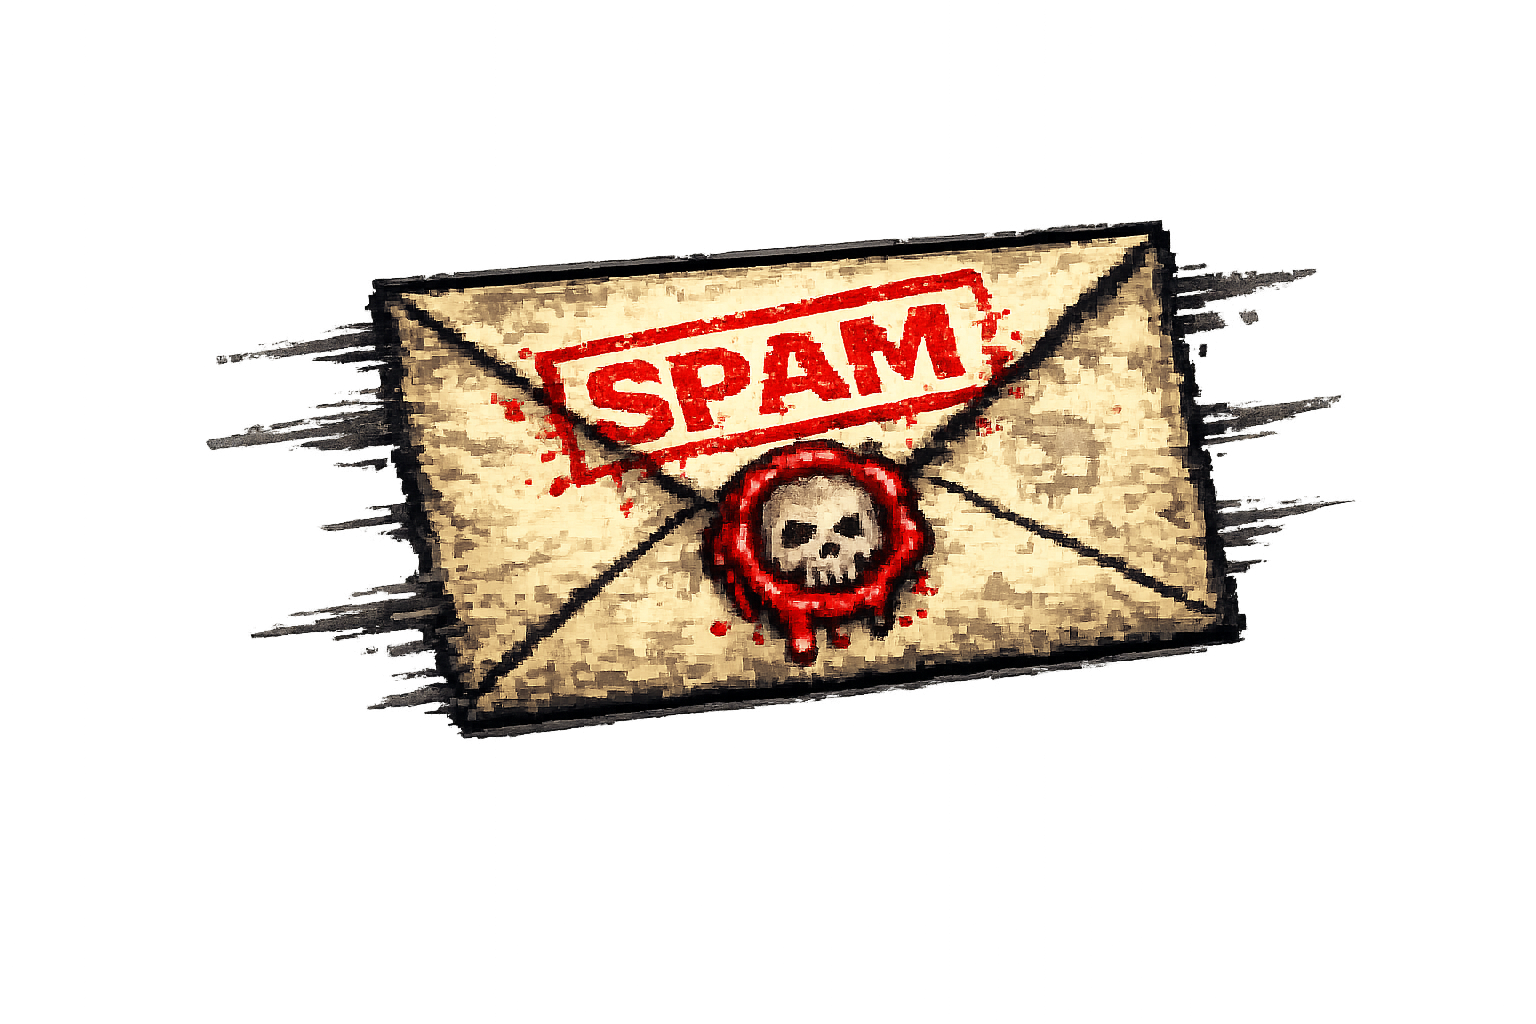
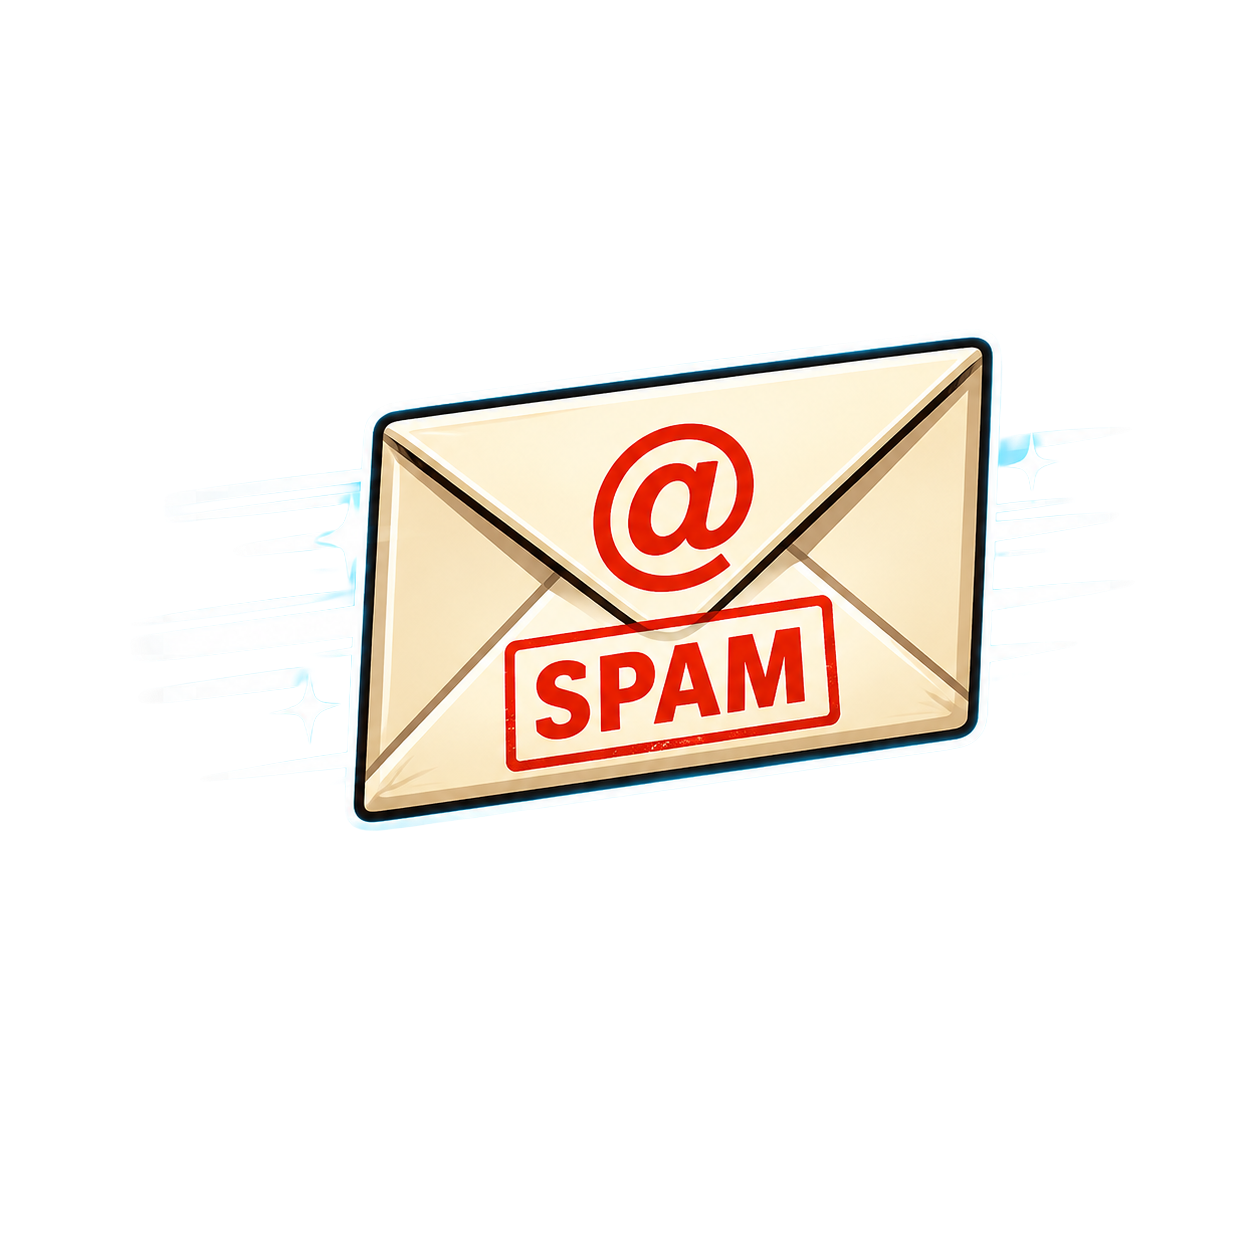
modem defender new enemies

Changed region(s): [[0.1244, 0.2188, 0.8708, 0.7188]]

diff --git a/src/games/ModemDefender.jsx b/src/games/ModemDefender.jsx
@@ -69,15 +69,49 @@ const lerp = (a, b, t) => a + (b - a) * t;
    art     : sprite file (or null for emoji)
    anim    : frame count if it's an animated strip (virus)
    fires   : ms cadence to lob a missile (0 = never). Kept sparse on purpose.
-   weight  : relative frequency in the wall once unlocked
-   minLevel: first level this type appears */
+   weight  : relative frequency in the wall once unlocked (0 = never rolls into a
+             wall; spawned only at runtime, e.g. split children)
+   minLevel: first level this type appears
+   split   : { perKill, childType } → on death, spawn `perKill` copies of
+             `childType` carrying gen-1. A wall-spawned splitter starts at gen 1
+             (→ children → grandchildren at gen 0, which spawn nothing). Bounded.
+   overheat: true → ANY hit on this brick speeds the ball up for a few seconds
+             (the BUFFERING skill counters/clears it)
+   hit     : optional collision-box override for sprites whose SOLID body doesn't
+             fill the cell — e.g. art with a faint "ghost" duplicate or motion
+             trails that shouldn't register a hit. Fractions of the cell (br.w×br.h):
+               ox,oy = center offset (−left/up … +right/down), fw,fh = box size.
+             Default (no `hit`) = full centered cell. The sprite still RENDERS full;
+             only the collision math shrinks/shifts to the real body. */
 const BRICKS = {
   popup: { w: 58, hp: 1, score: 100, drain: 6, art: "popup.webp", fires: 0, weight: 10, minLevel: 1 },
-  spam: { w: 54, hp: 1, score: 120, drain: 5, art: "spam.webp", fires: 0, weight: 7, minLevel: 1 },
+  // Envelope flies in with faint speed-lines; trim keeps the body ~full-frame (the
+  // trails are low-alpha and mostly trimmed away). Small inset skips the soft glow +
+  // the thin trail wisp on the right so collision stays on the solid letter.
+  spam: { w: 54, hp: 1, score: 120, drain: 5, art: "spam.webp", fires: 0, weight: 7, minLevel: 1, hit: { ox: -0.02, oy: 0, fw: 0.9, fh: 0.86 } },
   banner: { w: 104, hp: 2, score: 150, drain: 7, art: "banner.webp", fires: 0, weight: 5, minLevel: 2 },
   virus: { w: 56, hp: 2, score: 200, drain: 10, art: "virus.webp", fires: 8500, weight: 5, minLevel: 3 },
   clippy: { w: 66, hp: 3, score: 220, drain: 9, art: "clippy.webp", fires: 10000, weight: 4, minLevel: 4 },
-  toolbar: { w: 92, hp: 4, score: 260, drain: 8, art: "toolbar.webp", fires: 0, weight: 4, minLevel: 5 },
+  toolbar: { w: 92, hp: 4, score: 260, drain: 8, art: "toolbar.webp", fires: 0, weight: 4, minLevel: 4 },
+  // Turbo pop-up ("DOWNLOAD 100× FASTER!!!") — appears after the 1st boss. Hitting
+  // it ramps the ball speed. A pop-up, not hardware, so it doesn't clash with the
+  // player's own modem mascot. Window fills the frame (flames are contained inside
+  // it); a small centered inset just trims the soft outer glow from the hit area.
+  overheat: { w: 70, hp: 2, score: 240, drain: 9, art: "turbo-popup.webp", fires: 0, weight: 4, minLevel: 1, overheat: true, hit: { ox: 0, oy: 0, fw: 0.9, fh: 0.9 } },
+  // Spam swarm — appears after the 2nd boss. A pop-up that multiplies on death.
+  // Children (spamspawn) never roll into a wall (weight 0); they only come from
+  // a split. gen on the live instance terminates the hydra (1 → 2 → 4 max=7).
+  // ART: solid "FREE!!! YOU'VE WON!" window is UPPER-LEFT; faint ghost copies cascade
+  // to the lower-right. Hitbox shifts up-left + shrinks so only the solid window is
+  // hittable, never the ghosts.
+  spamswarm: { w: 56, hp: 1, score: 130, drain: 6, art: "spam-swarm.webp", fires: 0, weight: 6, minLevel: 1, split: { perKill: 2, childType: "spamspawn" }, hit: { ox: -0.07, oy: -0.1, fw: 0.8, fh: 0.72 } },
+  spamspawn: { w: 40, hp: 1, score: 60, drain: 4, art: "spam-swarm.webp", fires: 0, weight: 0, minLevel: 99, split: { perKill: 1, childType: "spamspawn" }, hit: { ox: -0.07, oy: -0.1, fw: 0.8, fh: 0.72 } },
+};
+// Emoji shown if a brick's sprite WebP is missing (keeps the game playable before
+// the art is generated; the <img> onError swaps to this).
+const BRICK_EMOJI = {
+  popup: "🪟", spam: "✉️", banner: "📢", virus: "🦠", clippy: "📎", toolbar: "🧰",
+  overheat: "⚡", spamswarm: "💬", spamspawn: "💬",
 };
 
 /* ── Inventory items (consumables looted from crates) ──────────────────────────
@@ -113,6 +147,13 @@ const LOOT_PER_LEVEL = [1, 3]; // min..max loot crates woven into a wall
 // no matter how many shooters a level rolls, so a 1-shooter and a 3-shooter
 // level feel comparable instead of the latter being a barrage.
 const MAX_WALL_MISSILES = 4;
+// Hard cap on spam-swarm bricks (parents + children) alive at once. When at cap,
+// a death simply doesn't split — keeps the hydra from flooding the arena.
+const MAX_SWARM = 16;
+// Ball-overspeed (from hitting an `overheat` brick): a timed effect parked in the
+// same inv.active map the skills use, so it auto-expires and BUFFERING can clear it.
+const OVERSPEED_MULT = 1.5; // ball moves 50% faster while active
+const OVERSPEED_DUR = 5000; // ms
 const ENTITY_CAP = { balls: 12, missiles: 40, bricks: 80, sparks: 80 };
 // Stacking: how many of each item you can hold, by level reached.
 const STACK_T1 = 5; // level ≥5 (after first boss) → hold 2
@@ -416,6 +457,7 @@ export function ModemDefender({ onExit }) {
     const pool = [];
     for (const [k, v] of Object.entries(BRICKS)) {
       if (lv < v.minLevel) continue;
+      if (v.weight <= 0) continue; // runtime-only types (split children) never roll into a wall
       let w = v.weight;
       if (v.hp >= 3 && row > 1) w = Math.max(1, Math.floor(w / 2)); // tough bricks rarer low down
       for (let i = 0; i < w; i++) pool.push(k);
@@ -494,6 +536,12 @@ export function ModemDefender({ onExit }) {
       SFX.shield();
     } else if (id === "buffering") {
       inv.current.active.buffering = t + def.dur;
+      // Second use for BUFFERING: cancel any active overheat overspeed — a true
+      // "reset the pace" tool, not just a live slow.
+      if (isActive("overspeed")) {
+        inv.current.active.overspeed = 0;
+        addFloat(paddle.current.x, paddleY() - 40, "PACE RESET", def.color);
+      }
     } else if (id === "broadband") {
       inv.current.active.broadband = t + def.dur;
     } else if (id === "overclock") {
@@ -521,6 +569,7 @@ export function ModemDefender({ onExit }) {
     const W = box?.width || 360;
     const H = box?.height || 600;
     const slow = isActive("buffering") ? 0.5 : 1;
+    const boost = isActive("overspeed") ? OVERSPEED_MULT : 1; // ball-only overspeed (turbo pop-up)
     const shield = isActive("firewall");
     const wide = isActive("broadband");
     const pierce = isActive("overclock");
@@ -546,7 +595,9 @@ export function ModemDefender({ onExit }) {
       }
       // overclock pierce flag tracks the active window
       b.pierce = pierce;
-      const sp = slow;
+      // ball-only time scale: buffering slows, overheat speeds up (they compose, so
+      // buffering tames an overspeed even before its timer is cleared).
+      const sp = slow * boost;
       b.x += b.vx * dt * sp;
       b.y += b.vy * dt * sp;
 
@@ -665,7 +716,8 @@ export function ModemDefender({ onExit }) {
         // ricocheted missile damages bricks / boss
         let consumed = false;
         for (const br of bricks.current) {
-          if (Math.abs(m.x - br.x) < br.w / 2 + m.w && Math.abs(m.y - br.y) < br.h / 2 + m.w) {
+          const hb = brickHitbox(br);
+          if (Math.abs(m.x - hb.cx) < hb.hw + m.w && Math.abs(m.y - hb.cy) < hb.hh + m.w) {
             damageBrick(br, 1, m.x, m.y);
             consumed = true;
             break;
@@ -710,22 +762,62 @@ export function ModemDefender({ onExit }) {
     raf.current = requestAnimationFrame(loop);
   };
 
+  // Spawn a brick mid-game (split children). Mirrors the push shape in buildLevel;
+  // `gen` is the remaining split generations carried on THIS instance. Respects the
+  // global brick cap so we never exceed the array bound.
+  function spawnBrick(type, x, y, gen) {
+    if (bricks.current.length >= ENTITY_CAP.bricks) return;
+    const def = BRICKS[type];
+    if (!def) return;
+    bricks.current.push({
+      id: uid(),
+      type,
+      loot: false,
+      x,
+      y,
+      w: def.w,
+      h: 36,
+      hp: def.hp,
+      maxHp: def.hp,
+      art: def.art,
+      anim: def.anim || 0,
+      fires: def.fires || 0,
+      nextShot: now() + rand(3000, 8000),
+      gen,
+    });
+  }
+
+  // Effective collision box for a brick: center (cx,cy) + half-extents (hw,hh).
+  // Honors an optional per-type `hit` override (see BRICKS) so collision lands on a
+  // sprite's SOLID body and ignores decoration (ghost windows, motion trails).
+  function brickHitbox(br) {
+    const h = BRICKS[br.type]?.hit;
+    if (!h) return { cx: br.x, cy: br.y, hw: br.w / 2, hh: br.h / 2 };
+    return {
+      cx: br.x + (h.ox || 0) * br.w,
+      cy: br.y + (h.oy || 0) * br.h,
+      hw: (br.w * (h.fw ?? 1)) / 2,
+      hh: (br.h * (h.fh ?? 1)) / 2,
+    };
+  }
+
   // Resolve ball↔brick collision (one brick per frame). Reflects on the shallower
   // axis unless the ball is piercing (overclock), which plows straight through.
   function hitBricks(b) {
     for (const br of bricks.current) {
       if (br.hp <= 0) continue;
-      const dx = Math.abs(b.x - br.x);
-      const dy = Math.abs(b.y - br.y);
-      if (dx < br.w / 2 + b.r && dy < br.h / 2 + b.r) {
+      const hb = brickHitbox(br);
+      const dx = Math.abs(b.x - hb.cx);
+      const dy = Math.abs(b.y - hb.cy);
+      if (dx < hb.hw + b.r && dy < hb.hh + b.r) {
         const dmg = b.pierce ? 99 : 1;
         damageBrick(br, dmg, b.x, b.y);
         if (!b.pierce) {
           // bounce: pick axis by overlap depth
-          const ox = br.w / 2 + b.r - dx;
-          const oy = br.h / 2 + b.r - dy;
-          if (ox < oy) b.vx = b.x < br.x ? -Math.abs(b.vx) : Math.abs(b.vx);
-          else b.vy = b.y < br.y ? -Math.abs(b.vy) : Math.abs(b.vy);
+          const ox = hb.hw + b.r - dx;
+          const oy = hb.hh + b.r - dy;
+          if (ox < oy) b.vx = b.x < hb.cx ? -Math.abs(b.vx) : Math.abs(b.vx);
+          else b.vy = b.y < hb.cy ? -Math.abs(b.vy) : Math.abs(b.vy);
           return; // one brick per frame for a clean bounce
         }
       }
@@ -751,6 +843,17 @@ export function ModemDefender({ onExit }) {
       }
       return;
     }
+    // Turbo pop-up: ANY hit (even a non-killing one) ramps the ball up. Refreshes
+    // the window on each hit. BUFFERING clears it (see useItem). Only announce when
+    // it's a fresh activation so repeated taps don't spam floats.
+    if (BRICKS[br.type]?.overheat) {
+      const wasActive = isActive("overspeed");
+      inv.current.active.overspeed = now() + OVERSPEED_DUR;
+      if (!wasActive) {
+        addFloat(br.x, br.y - 18, "⚡ TURBO — SPEED UP!", T.red);
+        SFX.hurt();
+      }
+    }
     br.hp -= dmg;
     if (br.hp > 0) {
       spawnSpark(x, y, "hit");
@@ -763,6 +866,20 @@ export function ModemDefender({ onExit }) {
       addFloat(br.x, br.y, `+${pts}`, mult > 1 ? T.yellow : T.cyan);
       spawnSpark(br.x, br.y, "kill");
       SFX.pop(combo.current);
+      // Spam swarm: multiplies on death. gen carried per-instance terminates the
+      // hydra; wall-spawned splitters start at gen 2 (→ children → grandchildren).
+      const sp = BRICKS[br.type]?.split;
+      const gen = br.gen ?? (sp ? 2 : 0);
+      if (sp && gen > 0) {
+        const live = bricks.current.reduce((n, b) => n + (b.type === "spamswarm" || b.type === "spamspawn" ? 1 : 0), 0);
+        let budget = Math.max(0, MAX_SWARM - live);
+        let made = 0;
+        for (let i = 0; i < sp.perKill && budget > 0; i++, budget--, made++) {
+          const dir = i % 2 === 0 ? -1 : 1;
+          spawnBrick(sp.childType, br.x + dir * 26, br.y + rand(-6, 12), gen - 1);
+        }
+        if (made > 0) addFloat(br.x, br.y - 16, "MULTIPLYING!", T.red);
+      }
     }
   }
 
@@ -888,6 +1005,7 @@ export function ModemDefender({ onExit }) {
   const slowOn = isActive("buffering");
   const wideOn = isActive("broadband");
   const overOn = isActive("overclock");
+  const overspeedOn = isActive("overspeed"); // overheat-enemy ball speed-up
   const bo = boss.current;
 
   return (
@@ -895,6 +1013,7 @@ export function ModemDefender({ onExit }) {
       <div className="md-crt" />
       {hurt && <div className="md-breach" />}
       {slowOn && <div className="md-slow" />}
+      {overspeedOn && <div className="md-overspeed" />}
       {shieldOn && <div className="md-shielded" />}
 
       {/* ── HUD ── */}
@@ -946,8 +1065,16 @@ export function ModemDefender({ onExit }) {
                 <span className="md-loot-fallback" style={{ display: "none" }}>🎁</span>
               </div>
             ) : (
-              <div key={br.id} className="md-brick" style={{ left: br.x, top: br.y, width: br.w, height: br.h, transform: "translate(-50%,-50%)" }}>
-                <img className={br.type === "virus" ? "md-virus-blob" : undefined} src={sprite(br.art)} alt="" draggable={false} style={{ width: br.w }} />
+              <div key={br.id} className={`md-brick${br.type === "overheat" ? " md-overheat" : ""}`} style={{ left: br.x, top: br.y, width: br.w, height: br.h, transform: "translate(-50%,-50%)" }}>
+                <img
+                  className={br.type === "virus" ? "md-virus-blob" : undefined}
+                  src={sprite(br.art)}
+                  alt=""
+                  draggable={false}
+                  style={{ width: br.w }}
+                  onError={(e) => { e.currentTarget.style.display = "none"; e.currentTarget.nextSibling.style.display = "flex"; }}
+                />
+                <span className="md-brick-fallback" style={{ display: "none", width: br.w, height: br.h }}>{BRICK_EMOJI[br.type] || "🟪"}</span>
                 {br.maxHp > 1 && br.hp < br.maxHp && <span className="md-ehp"><span style={{ width: `${(br.hp / br.maxHp) * 100}%` }} /></span>}
               </div>
             )
@@ -1063,6 +1190,11 @@ export const MD_CSS = `
 .md-crt::after{content:"";position:absolute;inset:0;background:radial-gradient(circle at 50% 45%,transparent 55%,rgba(0,0,0,0.55));}
 .md-breach{position:absolute;inset:0;pointer-events:none;z-index:40;animation:mdBreach 0.26s ease-out;box-shadow:inset 0 0 120px 20px rgba(255,45,85,0.5);}
 .md-slow{position:absolute;inset:0;pointer-events:none;z-index:39;box-shadow:inset 0 0 140px 30px rgba(63,255,208,0.16);}
+/* Turbo ball-overspeed: pulsing red-hot vignette (distinct from buffering's cyan)
+   so the "ball is faster" danger reads at a glance. Static overlay — no glow on the
+   moving ball itself (that smears into trails on iOS Safari). */
+.md-overspeed{position:absolute;inset:0;pointer-events:none;z-index:39;animation:mdOverspeed 0.7s ease-in-out infinite;}
+@keyframes mdOverspeed{0%,100%{box-shadow:inset 0 0 120px 22px rgba(255,45,85,0.12)}50%{box-shadow:inset 0 0 150px 34px rgba(255,138,61,0.22)}}
 .md-shielded{position:absolute;inset:0;pointer-events:none;z-index:39;box-shadow:inset 0 0 120px 24px rgba(48,209,88,0.18);}
 @keyframes mdBreach{0%{opacity:1}100%{opacity:0}}
 
@@ -1102,6 +1234,11 @@ export const MD_CSS = `
 }
 .md-ehp{position:absolute;left:8%;right:8%;bottom:-5px;height:3px;background:#ffffff22;border-radius:2px;overflow:hidden;}
 .md-ehp span{display:block;height:100%;background:#ff2d55;box-shadow:0 0 4px #ff2d55;}
+/* Emoji shown when a brick sprite WebP is missing (img onError swaps to this). */
+.md-brick-fallback{align-items:center;justify-content:center;font-size:30px;line-height:1;}
+/* Turbo pop-up: pulsing red/orange danger glow so it reads as the "speed" hazard. */
+.md-overheat{animation:mdPopIn 0.2s cubic-bezier(0.34,1.56,0.64,1),mdOverheat 0.8s ease-in-out infinite;}
+@keyframes mdOverheat{0%,100%{filter:drop-shadow(0 0 4px #ff8a3d) drop-shadow(0 1px 3px rgba(0,0,0,0.5))}50%{filter:drop-shadow(0 0 14px #ff2d55) drop-shadow(0 0 6px #ffd60a)}}
 .md-loot{animation:mdPopIn 0.2s cubic-bezier(0.34,1.56,0.64,1),mdLootGlow 1.2s ease-in-out infinite;}
 .md-loot-img{width:100%;height:100%;object-fit:contain;}
 .md-loot-fallback{position:absolute;font-size:20px;}

diff --git a/scripts/process-modem-assets.js b/scripts/process-modem-assets.js
@@ -40,6 +40,8 @@ const SPRITE_JOBS = [
   { src: "virus-blob.png", dir: SPRITES, name: "virus", width: 360 }, // single frame; animated via CSS wobble in-game
   { src: "parody-assistance.png", dir: SPRITES, name: "clippy", width: 360 },
   { src: "toolbar-hijacker.png", dir: SPRITES, name: "toolbar", width: 480 },
+  { src: "turbo-popup.png", dir: SPRITES, name: "turbo-popup", width: 480 }, // "download faster!" pop-up → ball speed-up
+  { src: "spam-swarm.png", dir: SPRITES, name: "spam-swarm", width: 420 }, // pop-up that multiplies on death
   { src: "bsod-boss.png", dir: SPRITES, name: "boss", width: 560 },
   { src: "defender-modem.png", dir: SPRITES, name: "player", width: 320 },
   { src: "modem-defender-logo.png", dir: UI, name: "logo", width: 900 },